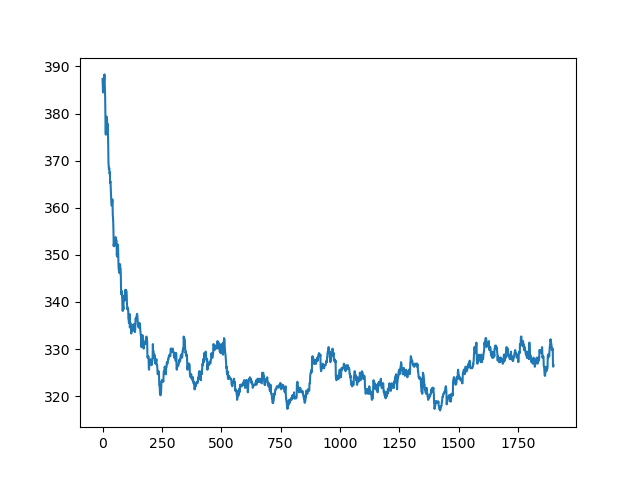
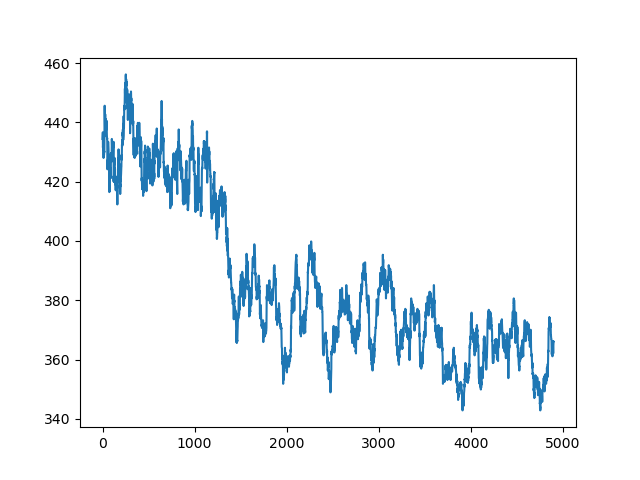
changed hyperparameters

diff --git a/rational_agent_rr_1.py b/rational_agent_rr_1.py
@@ -100,10 +100,10 @@ def rational_trainer(notebook=False):
 
 
     # Step 3b: Initialize an Optimizer
-    learning_rate = 0.25  # HYPERPARAM
+    learning_rate = 0.15 # HYPERPARAM
     optimizer = optim.Adam(params=policy_nn.parameters(), lr=learning_rate)
     # Step 4: Iterate over episodes
-    episodes = 2000
+    episodes = 5000
     explorer = Explorer(1, 0.05, 0.000005)
     time_step_ctr = 0
 
@@ -150,7 +150,7 @@ def rational_trainer(notebook=False):
             memo.push(exp)
 
             # Step 10: Sample random batch from replay memory
-            batch_size = 100
+            batch_size = 125
             loss = torch.tensor(-1).to(device)
             if memo.can_sample(batch_size):
                 states, actions, next_states, rewards = memo.sample_tensors(batch_size)
